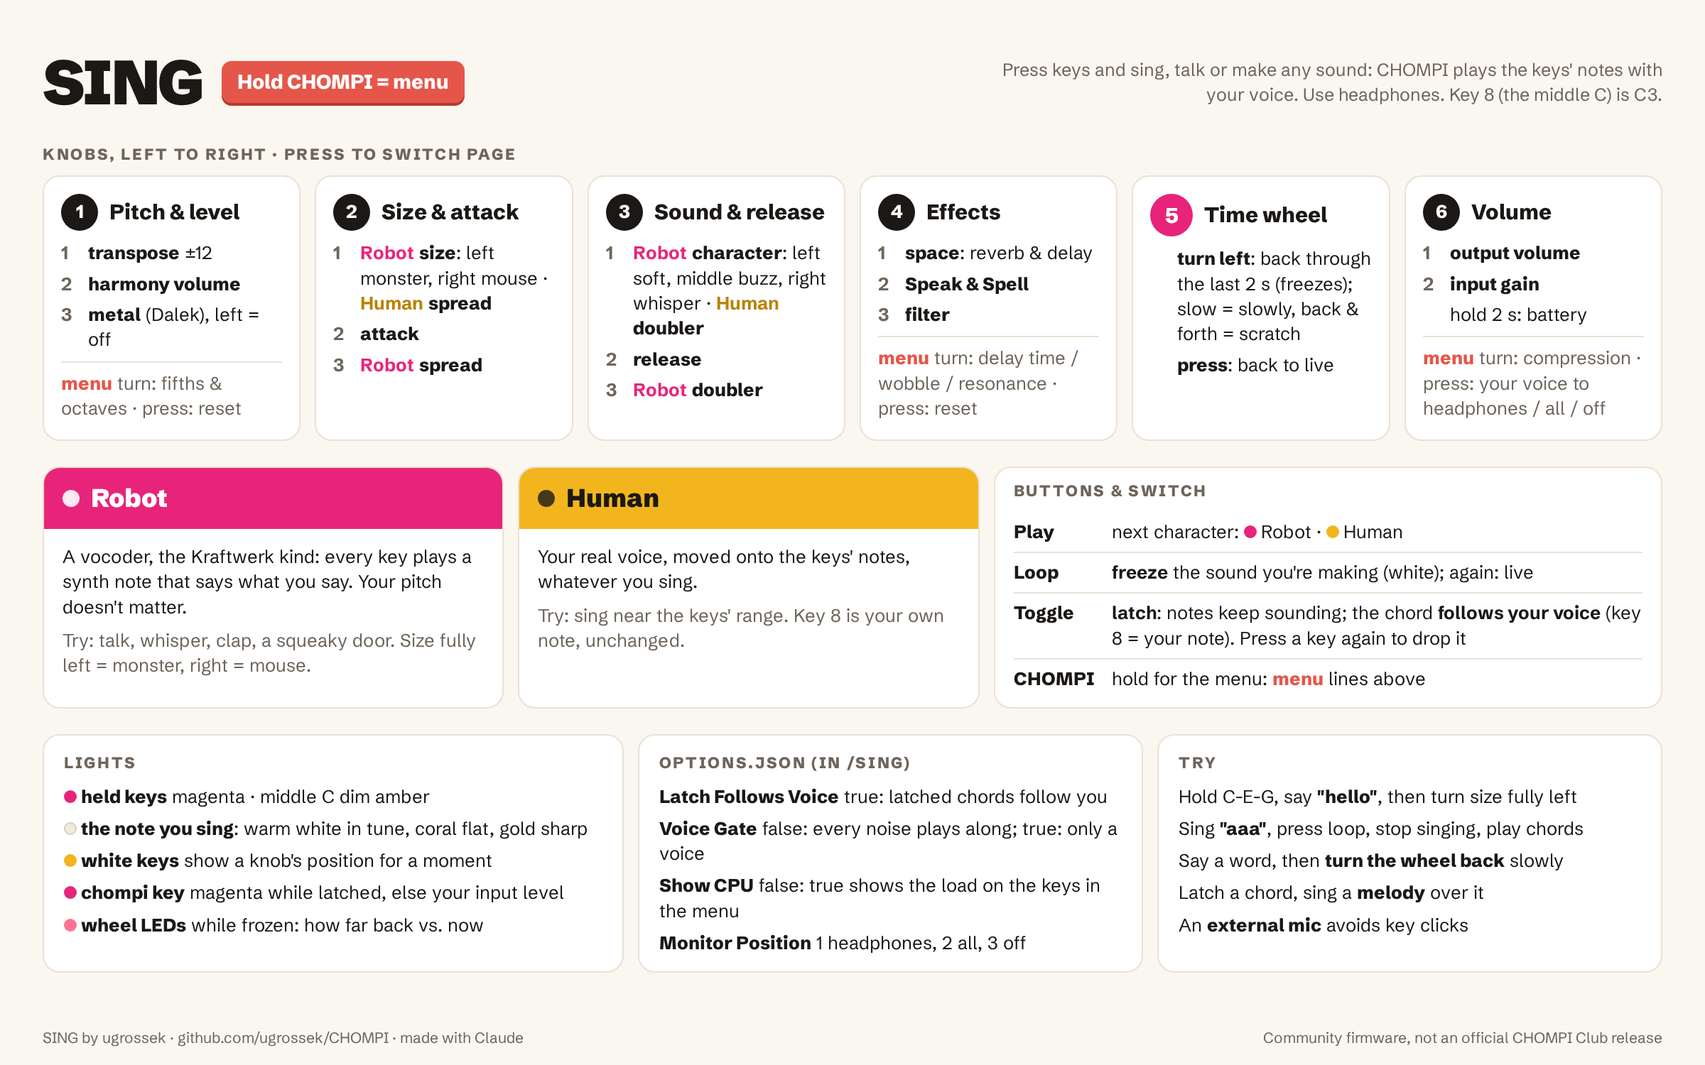
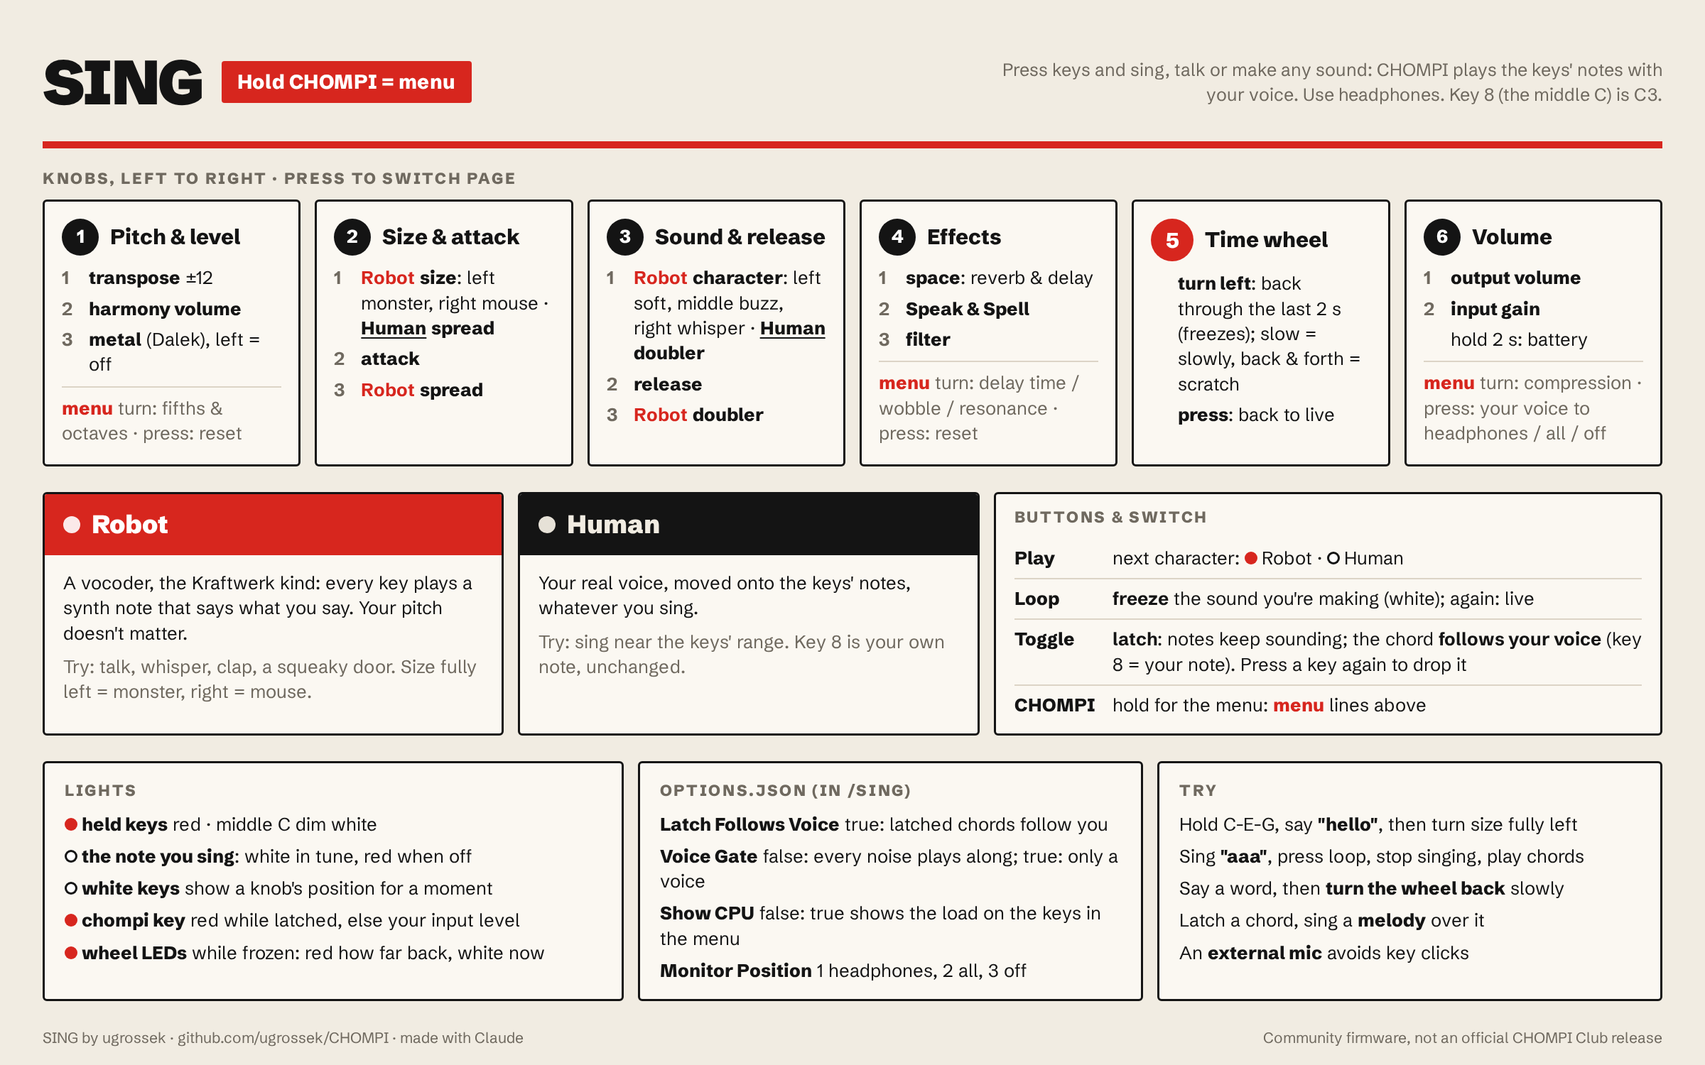
SING: palette A, "Die Mensch-Maschine": red and warm white
Red is the robot and what is played, warm white the human and what is in
tune, after Kraftwerk's album. On the unit: play red (Robot) / warm white
(Human), held keys red, the sung-note light warm white in tune and red
when off, middle C and the value bar warm white, latch red, the wheel's
LEDs red (back) / white (now), knob rings from warm white to red, the
boot animation and rainbow in red and white. The cheat sheet (square
cards, black and red), README and release notes draft match.

Claude-Session: https://claude.ai/code/session_01874WzKbEgcN1VoWn2vqLJT

Changed region(s): [[0.0, 0.0307, 1.0, 0.92]]

diff --git a/firmware/chompi-sing/docs/cheatsheet.html b/firmware/chompi-sing/docs/cheatsheet.html
@@ -8,16 +8,17 @@
   /* Rendered at 1200 x 750 CSS px, device scale 2 -> 2400 x 1500 PNG
      (render.sh). Colours follow SING's lights. */
   :root {
-    --paper: #FAF6F0;
-    --card: #FFFFFF;
-    --ink: #1B1815;
-    --soft: #6E655B;
-    --line: #EAE1D5;
-    --coral: #E5564A;
-    --magenta: #E8247A;
-    --gold: #F2B51D;
-    --amber: #FF9431;
-    --rose: #FF7393;
+    /* palette A, "Die Mensch-Maschine": red, black, paper */
+    --paper: #F1ECE2;
+    --card: #FBF8F2;
+    --ink: #141414;
+    --soft: #6F695F;
+    --line: #DCD4C6;
+    --coral: #D7261E;
+    --magenta: #D7261E;
+    --gold: #141414;
+    --amber: #8A8378;
+    --rose: #D7261E;
   }
   * { box-sizing: border-box; }
   html, body { margin: 0; }
@@ -31,12 +32,13 @@
   header { display: flex; align-items: center; gap: 14px; margin-bottom: 14px; }
   h1 { font-size: 44px; font-weight: 900; letter-spacing: -.04em; margin: 0; line-height: 1; }
   .badge {
-    background: var(--coral); color: #fff; border-radius: 7px; padding: 5px 11px;
-    font-weight: 800; font-size: 14px; box-shadow: 0 2px 0 #B8392F;
+    background: var(--coral); color: #fff; border-radius: 2px; padding: 5px 11px;
+    font-weight: 800; font-size: 14px; letter-spacing: .02em;
   }
+  header { border-bottom: 5px solid var(--coral); padding-bottom: 12px; }
   header .tag { margin-left: auto; color: var(--soft); font-size: 12.5px; text-align: right; max-width: 480px; }
   h2 { font-size: 11px; font-weight: 800; letter-spacing: .12em; color: var(--soft); margin: 0 0 7px; }
-  .card { background: var(--card); border: 1px solid var(--line); border-radius: 12px; }
+  .card { background: var(--card); border: 1.5px solid var(--ink); border-radius: 3px; }
 
   /* knobs */
   .knobs { display: grid; grid-template-columns: repeat(6, 1fr); gap: 10px; margin-bottom: 18px; }
@@ -47,14 +49,14 @@
     background: var(--ink); color: #fff; font-weight: 800; font-size: 13px;
     display: grid; place-items: center;
   }
-  .num.big { background: var(--magenta); width: 30px; height: 30px; font-size: 15px; }
+  .num.big { background: var(--coral); width: 30px; height: 30px; font-size: 15px; }
   .knob .name { font-weight: 800; font-size: 15px; line-height: 1.15; }
   .pages { margin: 0; padding: 0; list-style: none; display: grid; gap: 4px; }
   .pages li { display: grid; grid-template-columns: 15px 1fr; gap: 4px; }
   .pages .p { color: var(--soft); font-weight: 700; }
   .pages b { font-weight: 800; }
   .r { color: var(--magenta); font-weight: 700; }
-  .h { color: #B98100; font-weight: 700; }
+  .h { color: var(--ink); font-weight: 800; text-decoration: underline; text-underline-offset: 2px; }
   .menu-line { margin-top: 6px; padding-top: 6px; border-top: 1px solid var(--line); color: var(--soft); }
   .menu-line .m { color: var(--coral); font-weight: 800; }
 
@@ -64,8 +66,8 @@
   .char .head { padding: 9px 13px; font-weight: 900; font-size: 18px; color: #fff; display: flex; align-items: center; gap: 8px; }
   .char .head .dot { width: 12px; height: 12px; border-radius: 50%; background: #fff; opacity: .9; }
   .char.robot .head { background: var(--magenta); }
-  .char.human .head { background: var(--gold); color: var(--ink); }
-  .char.human .head .dot { background: var(--ink); opacity: .8; }
+  .char.human .head { background: var(--ink); color: var(--paper); }
+  .char.human .head .dot { background: var(--paper); opacity: .95; }
   .char .body { padding: 11px 13px 12px; }
   .char p { margin: 0 0 6px; }
   .char .try { color: var(--soft); }
@@ -166,7 +168,7 @@
     <div class="card buttons">
       <h2>BUTTONS &amp; SWITCH</h2>
       <table>
-        <tr><td>Play</td><td>next character: <span class="chip" style="background:var(--magenta)"></span>Robot · <span class="chip" style="background:var(--gold)"></span>Human</td></tr>
+        <tr><td>Play</td><td>next character: <span class="chip" style="background:var(--coral)"></span>Robot · <span class="chip" style="background:#fff;box-shadow:inset 0 0 0 1.5px var(--ink)"></span>Human</td></tr>
         <tr><td>Loop</td><td><b>freeze</b> the sound you're making (white); again: live</td></tr>
         <tr><td>Toggle</td><td><b>latch</b>: notes keep sounding; the chord <b>follows your voice</b> (key 8 = your note). Press a key again to drop it</td></tr>
         <tr><td>CHOMPI</td><td>hold for the menu: <span style="color:var(--coral);font-weight:800">menu</span> lines above</td></tr>
@@ -178,11 +180,11 @@
     <div class="card panel">
       <h2>LIGHTS</h2>
       <ul class="plain">
-        <li><span class="chip" style="background:var(--magenta)"></span><b>held keys</b> magenta · middle C dim amber</li>
-        <li><span class="chip" style="background:#F4EADC;box-shadow:inset 0 0 0 1px #d8cfc2"></span><b>the note you sing</b>: warm white in tune, coral flat, gold sharp</li>
-        <li><span class="chip" style="background:var(--gold)"></span><b>white keys</b> show a knob's position for a moment</li>
-        <li><span class="chip" style="background:var(--magenta)"></span><b>chompi key</b> magenta while latched, else your input level</li>
-        <li><span class="chip" style="background:var(--rose)"></span><b>wheel LEDs</b> while frozen: how far back vs. now</li>
+        <li><span class="chip" style="background:var(--coral)"></span><b>held keys</b> red · middle C dim white</li>
+        <li><span class="chip" style="background:#fff;box-shadow:inset 0 0 0 1.5px var(--ink)"></span><b>the note you sing</b>: white in tune, red when off</li>
+        <li><span class="chip" style="background:#fff;box-shadow:inset 0 0 0 1.5px var(--ink)"></span><b>white keys</b> show a knob's position for a moment</li>
+        <li><span class="chip" style="background:var(--coral)"></span><b>chompi key</b> red while latched, else your input level</li>
+        <li><span class="chip" style="background:var(--coral)"></span><b>wheel LEDs</b> while frozen: red how far back, white now</li>
       </ul>
     </div>
     <div class="card panel">

diff --git a/firmware/chompi-sing/code/src/NormalPage.h b/firmware/chompi-sing/code/src/NormalPage.h
@@ -118,22 +118,19 @@ namespace chompi
     static const float dark_orange[3] = {.77f, .38f, .06f};
     static const float yellow_green[3] = {.706f, 1.f, 0.f};
 
-    /* SING: "warm stage" palette, to tell it apart from TAPE */
-    static const float sing_magenta[3] = {1.f, .12f, .47f};
-    static const float sing_coral[3]   = {1.f, .42f, .30f};
-    static const float sing_amber[3]   = {1.f, .55f, 0.f};
-    static const float sing_gold[3]    = {1.f, .78f, .10f};
-    static const float sing_rose[3]    = {1.f, .45f, .60f};
-    static const float sing_warm[3]    = {1.f, .85f, .65f};
+    /* palette A, "Die Mensch-Maschine": red for the robot and for what
+       is played, warm white for the human and for what is in tune */
+    static const float sing_red[3]   = {1.f, .05f, .03f};
+    static const float sing_warm[3]  = {1.f, .85f, .65f};
 
-    /** the play key's colour for a character: robot magenta, human gold */
+    /** the play key's colour for a character: robot red, human warm white */
     static inline const float *SingCharacterColour(int index)
     {
-        return index == 0 ? sing_magenta : sing_gold;
+        return index == 0 ? sing_red : sing_warm;
     }
 
-    /** knob 1 transpose ring: warm white at 0, coral below, gold above,
-     *  brighter the further out */
+    /** knob 1 transpose ring: warm white at 0, red either way, brighter
+     *  the further out */
     static inline void SingTransposeColour(float v, float &r, float &g, float &b);
 
     /** colour between a and b at t, into r/g/b */
@@ -153,7 +150,7 @@ namespace chompi
             r = sing_warm[0]; g = sing_warm[1]; b = sing_warm[2];
             return;
         }
-        const float *c   = semis < 0.f ? sing_coral : sing_gold;
+        const float *c   = sing_red; // up or down: red, brighter further out
         const float  lvl = .35f + .65f * fminf(fabsf(semis) / 12.f, 1.f);
         r = c[0] * lvl; g = c[1] * lvl; b = c[2] * lvl;
     }
@@ -224,11 +221,11 @@ namespace chompi
             {
                 case 0: SingTransposeColour(v, r, g, b); return;
                 case 5: SingTransposeColour(v, r, g, b); return;                                    // size: centre = as sung
-                case 2: SingMix(sing_warm, sing_rose, v, r, g, b); lvl = .1f + .9f * v; break;      // metal
-                case 3: SingMix(sing_amber, sing_coral, v, r, g, b); lvl = .15f + .85f * v; break;  // spread
-                case 6: SingMix(sing_rose, sing_magenta, v, r, g, b); lvl = .15f + .85f * v; break; // doubler
-                case 8: SingMix(sing_warm, sing_magenta, v, r, g, b); lvl = .4f + .6f * v; break;   // character
-                default: SingMix(sing_warm, sing_gold, v, r, g, b); lvl = .2f + .8f * v; break;     // volume, attack, release
+                case 2: SingMix(sing_warm, sing_red, v, r, g, b); lvl = .1f + .9f * v; break;   // metal
+                case 3:                                                                          // spread
+                case 6: SingMix(sing_warm, sing_red, v, r, g, b); lvl = .15f + .85f * v; break; // doubler
+                case 8: SingMix(sing_warm, sing_red, v, r, g, b); lvl = .4f + .6f * v; break;   // character
+                default: SingMix(sing_warm, sing_red, v, r, g, b); lvl = .2f + .8f * v; break;  // volume, attack, release
             }
             r *= lvl; g *= lvl; b *= lvl;
         }
@@ -333,7 +330,7 @@ namespace chompi
                 }
             }
 
-            /* SING: held keys magenta; the middle C dim amber and
+            /* SING: held keys red; the middle C dim warm white and
                the outer Cs dimmer, for orientation. Idle markers stay off
                while the mic is monitored, as in TAPE. */
             /* SING: for a moment after a knob turn, the white keys show its
@@ -361,7 +358,7 @@ namespace chompi
 
             /* SING: the key of the note being sung, folded into the
                keyboard's two octaves: warm white when in tune (within 15
-               cents), coral when flat, gold when sharp. Held over short
+               cents), red when off. Held over short
                unvoiced gaps so it doesn't flicker. */
             float sung;
             const uint32_t now_ms = System::GetNow();
@@ -381,9 +378,7 @@ namespace chompi
                 while (m > 72)
                     m -= 12;
                 sung_key = m;
-                const float *c = fabsf(cents) < 15.f ? sing_warm
-                                 : cents < 0.f      ? sing_coral
-                                                    : sing_gold;
+                const float *c = fabsf(cents) < 15.f ? sing_warm : sing_red; // in tune / off
                 sr = c[0] * .8f;
                 sg = c[1] * .8f;
                 sb = c[2] * .8f;
@@ -394,7 +389,7 @@ namespace chompi
                 const bool c_key = key_map[i] % 12 == 0;
                 const int  w     = WhiteKeyIndex(key_map[i]); // 0..14, -1 black
                 if (fx_->IsHarmonyKeyHeld(i))
-                    SetSmtLedFloat(led_map[i], sing_magenta[0], sing_magenta[1], sing_magenta[2]);
+                    SetSmtLedFloat(led_map[i], sing_red[0], sing_red[1], sing_red[2]);
                 else if (key_map[i] == sung_key)
                     SetSmtLedFloat(led_map[i], sr, sg, sb);
                 else if (show_value)
@@ -403,14 +398,14 @@ namespace chompi
                     const float k0 = w / 15.f, k1 = (w + 1) / 15.f;
                     const bool  on = w >= 0 && bar_hi > k0 && bar_lo < k1;
                     if (on)
-                        SetSmtLedFloat(led_map[i], sing_gold[0] * bar_lvl, sing_gold[1] * bar_lvl, sing_gold[2] * bar_lvl);
+                        SetSmtLedFloat(led_map[i], sing_warm[0] * bar_lvl, sing_warm[1] * bar_lvl, sing_warm[2] * bar_lvl);
                     else
                         SetSmtLed(led_map[i], 0, 0, 0);
                 }
                 else if (c_key)
                 {
                     const float dim = key_map[i] == 60 ? .3f : .1f;
-                    SetSmtLedFloat(led_map[i], sing_amber[0] * dim, sing_amber[1] * dim, sing_amber[2] * dim);
+                    SetSmtLedFloat(led_map[i], sing_warm[0] * dim, sing_warm[1] * dim, sing_warm[2] * dim);
                 }
                 else
                     SetSmtLed(led_map[i], 0, 0, 0);
@@ -451,26 +446,25 @@ namespace chompi
                                 fx_->SetDelayFeedback(0.f);
                             }
 
-                            // SING: delay gold <- centre -> reverb magenta
-                            if (value < .5f) SingMix(sing_warm, sing_gold, (.5f - value) * 2.f, r, g, b);
-                            else             SingMix(sing_warm, sing_magenta, (value - .5f) * 2.f, r, g, b);
+                            // centre warm white, delay or reverb further out: red
+                            SingMix(sing_warm, sing_red, fabsf(value - .5f) * 2.f, r, g, b);
                         }
                         else {
                             fx_->SetReverb(value);
                             fx_->SetDelayFeedback(value);
 
-                            SingMix(sing_gold, sing_magenta, value, r, g, b); // SING
+                            SingMix(sing_warm, sing_red, value, r, g, b); // SING
                         }
                     }
                     else if (page == 1) // lofi
                     {
                         fx_->SetCrush(value);
-                        SingMix(sing_amber, red, value, r, g, b); // SING: Speak & Spell
+                        SingMix(sing_warm, sing_red, value, r, g, b); // SING: Speak & Spell
                     }
                     else // filter
                     {
                         fx_->SetFilter(value);
-                        SingMix(sing_coral, sing_warm, value, r, g, b); // SING: filter
+                        SingMix(sing_red, sing_warm, value, r, g, b); // SING: filter, closed red
                     }
 
 
@@ -482,9 +476,9 @@ namespace chompi
                 {
                     if(fx_->CanFreeze() && fx_->Frozen())
                     {
-                        /* left LED: how far back, magenta; right: now, warm */
+                        /* left LED: how far back, red; right: now, warm white */
                         const float back = fx_->ScrubPosition();
-                        SetPthLedFloat(5, sing_magenta[0] * back, sing_magenta[1] * back, sing_magenta[2] * back);
+                        SetPthLedFloat(5, sing_red[0] * back, sing_red[1] * back, sing_red[2] * back);
                         SetPthLedFloat(6, sing_warm[0] * (1.f - back), sing_warm[1] * (1.f - back), sing_warm[2] * (1.f - back));
                     }
                     else
@@ -566,9 +560,9 @@ namespace chompi
             fx_->SetInputMonitor(true); // SING: dry voice per monitor mode (menu, knob 6)
             if (fx_->IsLatched()) // SING: latch on
             {
-                r = sing_magenta[0];
-                g = sing_magenta[1];
-                b = sing_magenta[2];
+                r = sing_red[0];
+                g = sing_red[1];
+                b = sing_red[2];
             }
             else // input level, as TAPE shows while monitoring
             {

diff --git a/firmware/chompi-sing/code/src/MenuPage.h b/firmware/chompi-sing/code/src/MenuPage.h
@@ -74,7 +74,7 @@ namespace chompi
                 SetPthLedFloat(8, sing_warm[0] * fz, sing_warm[1] * fz, sing_warm[2] * fz);
                 const float back = fx_->CanFreeze() && fx_->Frozen() ? fx_->ScrubPosition() : 0.f;
                 const float now_ = fx_->CanFreeze() && fx_->Frozen() ? 1.f - back : 0.f;
-                SetPthLedFloat(5, sing_magenta[0] * back, sing_magenta[1] * back, sing_magenta[2] * back);
+                SetPthLedFloat(5, sing_red[0] * back, sing_red[1] * back, sing_red[2] * back);
                 SetPthLedFloat(6, sing_warm[0] * now_, sing_warm[1] * now_, sing_warm[2] * now_);
             }
 
@@ -185,9 +185,9 @@ namespace chompi
                 for (int w = 0; w < 15; w++)
                 {
                     if (w == peak_key)
-                        SetSmtLedFloat(24 - w, sing_gold[0], sing_gold[1], sing_gold[2]);
+                        SetSmtLedFloat(24 - w, sing_warm[0], sing_warm[1], sing_warm[2]);
                     else if (w / 15.f < avg)
-                        SetSmtLedFloat(24 - w, sing_coral[0] * .25f, sing_coral[1] * .25f, sing_coral[2] * .25f);
+                        SetSmtLedFloat(24 - w, sing_red[0] * .25f, sing_red[1] * .25f, sing_red[2] * .25f);
                     else
                         SetSmtLedFloat(24 - w, 0.f, 0.f, 0.f);
                 }

diff --git a/firmware/chompi-sing/code/src/RainbowWavePage.h b/firmware/chompi-sing/code/src/RainbowWavePage.h
@@ -10,11 +10,11 @@ namespace chompi
         void Init() {}
 
         // roygbivr (roll over at end for programming ease)
-        /* SING "warm stage": magenta, rose, coral, amber, gold, warm white,
-           coral, back to magenta */
-        const int reds[8] = {255, 255, 255, 255, 255, 255, 255, 255};
-        const int greens[8] = {31, 115, 107, 140, 199, 217, 107, 31};
-        const int blues[8] = {120, 153, 77, 0, 26, 166, 77, 120};
+        /* SING, "Die Mensch-Maschine": red to warm white and back, with a
+           dark gap in between, like a scanner */
+        const int reds[8] = {255, 255, 255, 255, 255, 40, 255, 255};
+        const int greens[8] = {13, 60, 170, 217, 170, 10, 13, 13};
+        const int blues[8] = {8, 40, 120, 166, 120, 8, 8, 8};
 
         const float kPthStep = 6.f / kNumPthLeds;
         const float kSmtStepBlack = 6.f / 10;

diff --git a/firmware/chompi-sing/code/src/BootPage.h b/firmware/chompi-sing/code/src/BootPage.h
@@ -17,12 +17,11 @@ namespace chompi
 
         void RandomColors()
         {
-            /* SING: a colour from the "warm stage" palette */
-            static const float kWarm[6][3] = {
-                {1.f, .12f, .47f}, {1.f, .45f, .60f}, {1.f, .42f, .30f},
-                {1.f, .55f, 0.f},  {1.f, .78f, .10f}, {1.f, .85f, .65f},
+            /* SING: red or warm white, "Die Mensch-Maschine" */
+            static const float kColours[2][3] = {
+                {1.f, .05f, .03f}, {1.f, .85f, .65f},
             };
-            const float *c = kWarm[System::GetNow() % 6];
+            const float *c = kColours[System::GetNow() % 2];
             r = c[0];
             g = c[1];
             b = c[2];

diff --git a/firmware/chompi-sing/README.md b/firmware/chompi-sing/README.md
@@ -18,10 +18,10 @@ and it sings.
 
 **Play** switches between them; its light shows which one is on.
 
-- **Robot** (magenta): a vocoder, the Kraftwerk kind. Each key plays a buzzy synth note and your
+- **Robot** (red): a vocoder, the Kraftwerk kind. Each key plays a buzzy synth note and your
   voice's words are imprinted on it. The pitch you sing doesn't matter, and talking, whispering,
   clapping or a squeaky door all work.
-- **Human** (gold): your real voice, shifted onto the keys' notes, whatever you sing. Sing roughly
+- **Human** (warm white): your real voice, shifted onto the keys' notes, whatever you sing. Sing roughly
   in the range of the keys for the most natural sound.
 
 Key 8, the C in the middle, is C3 in both. In Human, that's where your voice comes through
@@ -31,7 +31,7 @@ unchanged.
 
 | | |
 |---|---|
-| **Play** | next character: Robot (magenta) / Human (gold) |
+| **Play** | next character: Robot (red) / Human (warm white) |
 | **Loop** | **freeze**: holds the sound you're making, so you can stop and keep playing chords with it (white while frozen); press again to go back to live |
 | **Big wheel** | **time wheel**: turn left to go back through the last ~2 seconds (it freezes); slowly says it slowly, back and forth scratches. Press to go back to live |
 | **Toggle switch** | **latch**: notes keep sounding after you let go. Press a sounding key again to drop it. While latched, the chord **follows your voice**: key 8 is your note, the other keys keep their distance from it |
@@ -68,13 +68,16 @@ The keys keep playing while the menu is open.
 
 ## Lights
 
-- **Keys:** held keys magenta. The key of the note you're singing lights up too: warm white when
-  in tune, coral when flat, gold when sharp (a tuner). Middle C dim amber. Turn a knob and the
-  white keys show its position for a moment (transpose: from the middle outwards).
-- **Knob rings** brighten as each control turns up. Knob 1 on transpose: warm white at 0, coral
-  down, gold up.
-- **Big wheel's LEDs** while frozen: magenta for how far back, warm white for "now".
-- **Chompi key:** magenta while latched, otherwise your input level.
+Red and warm white, after Kraftwerk's *Die Mensch-Maschine*: red is the robot and what you
+play, warm white the human and what's in tune.
+
+- **Keys:** held keys red. The key of the note you're singing lights up too: warm white when in
+  tune, red when off (a tuner). Middle C dim white. Turn a knob and the white keys show its
+  position for a moment (transpose: from the middle outwards).
+- **Knob rings** go from warm white to red, and brighter, as each control turns up. Knob 1 on
+  transpose: warm white at 0, red either way.
+- **Big wheel's LEDs** while frozen: red for how far back, warm white for "now".
+- **Chompi key:** red while latched, otherwise your input level.
 
 ## Options
 

diff --git a/firmware/chompi-sing/docs/release-notes-sing2.md b/firmware/chompi-sing/docs/release-notes-sing2.md
@@ -6,7 +6,7 @@ SING turns CHOMPI into an instrument led by your voice. Press keys and sing, tal
 
 **New in SING 2**
 
-- **Two characters on the play button.** **Robot** (magenta): a vocoder, the Kraftwerk kind; the pitch you sing doesn't matter, and talking, whispering and noises all work. **Human** (gold): your real voice, moved onto the keys' notes, whatever you sing.
+- **Two characters on the play button.** **Robot** (red): a vocoder, the Kraftwerk kind; the pitch you sing doesn't matter, and talking, whispering and noises all work. **Human** (warm white): your real voice, moved onto the keys' notes, whatever you sing.
 - **The keys play their own notes.** Press C-E-G, hear C-E-G. Key 8 is C3.
 - **Freeze on the loop button:** hold the sound you're making and keep playing chords with it.
 - **Time wheel on the big wheel:** go back through the last 2 seconds, slowly or scratching.
